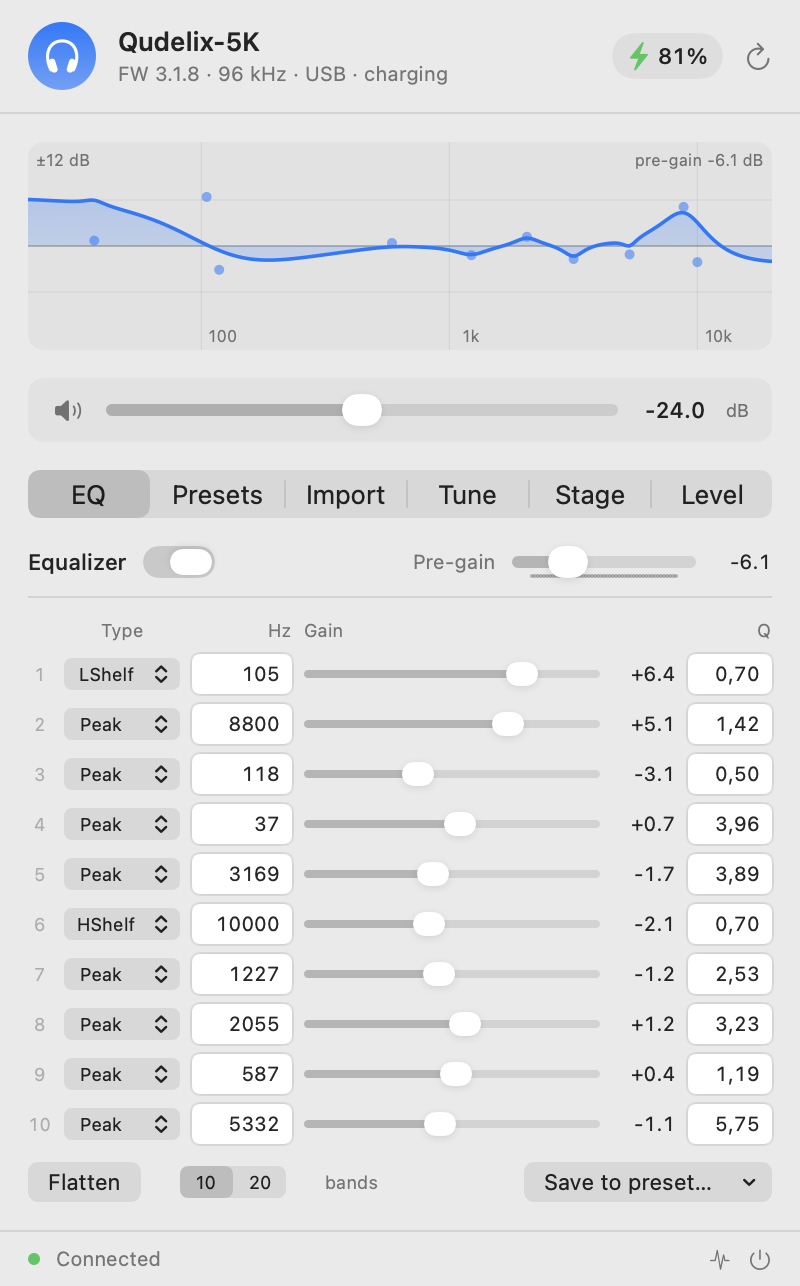
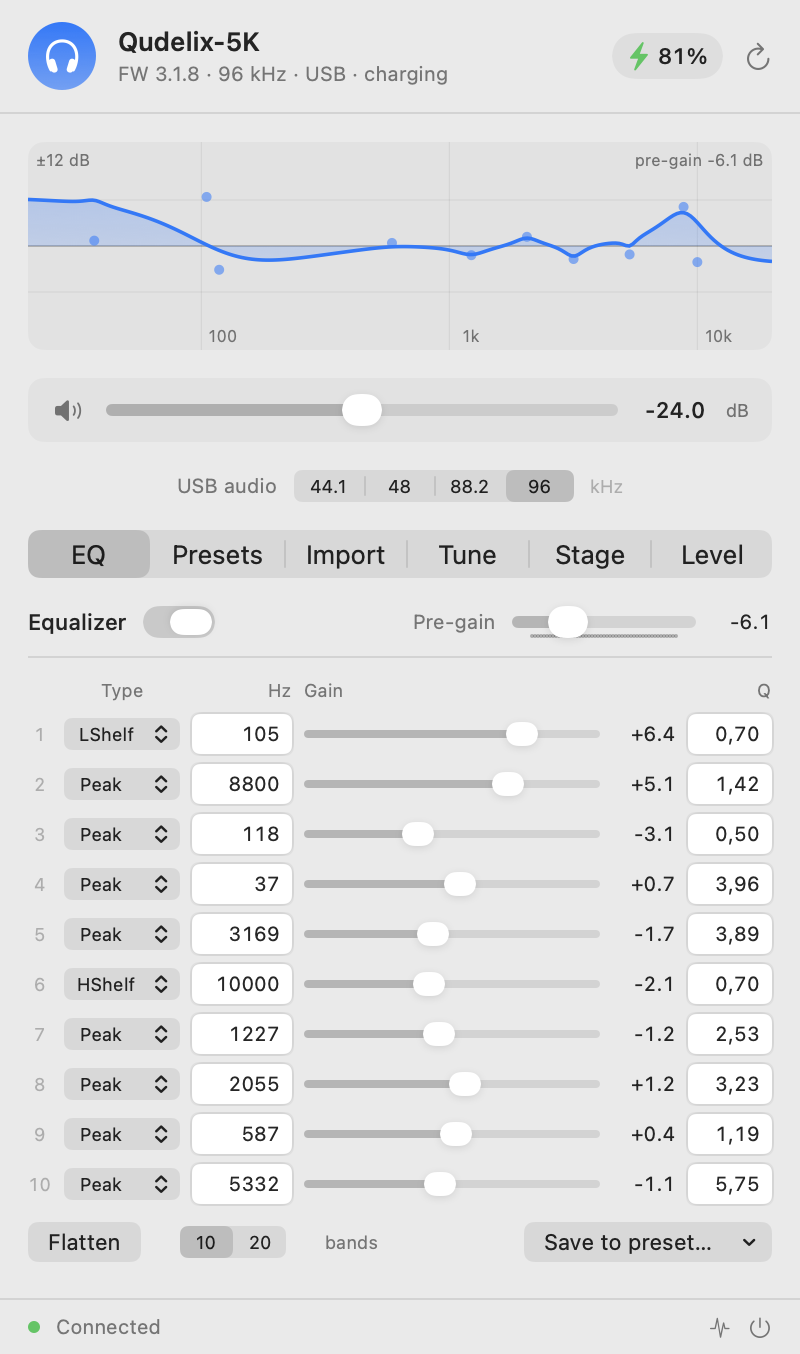
USB sample rate control, one click from the popover
macOS runs a USB DAC at one fixed rate and resamples everything else to
it — and unlike iOS it never switches that rate to match content, so a
5K parked at 96 kHz plays every 44.1 album through a resampler. The new
USB audio row sets the device's nominal rate (the same thing Audio MIDI
Setup does) from the rates the hardware itself advertises, with the
live bit depth beside it.

The tooltip is honest about the physics: match the rate to the library
for bit-perfect playback, and while Soundstage is on the audio is
processed on the Mac, so resampling happens regardless. If the stage
engine is running on the device when the rate changes, its rate
listener restarts it at the new rate.

The fixed content area grows once to fit the row and stays uniform
across every pane and state.

diff --git a/QudelixBar/Sources/QudelixBar/AudioOutputs.swift b/QudelixBar/Sources/QudelixBar/AudioOutputs.swift
@@ -38,6 +38,59 @@ enum AudioOutputs {
         nominalRate(id)
     }
 
+    /// The discrete sample rates the device offers. Ranges with distinct
+    /// min/max (rare for USB audio) contribute their endpoints.
+    static func availableNominalRates(_ id: AudioDeviceID) -> [Double] {
+        var addr = address(kAudioDevicePropertyAvailableNominalSampleRates)
+        var size: UInt32 = 0
+        guard AudioObjectGetPropertyDataSize(id, &addr, 0, nil, &size) == noErr,
+              size > 0 else { return [] }
+        var ranges = [AudioValueRange](repeating: AudioValueRange(),
+                                       count: Int(size) / MemoryLayout<AudioValueRange>.size)
+        guard AudioObjectGetPropertyData(id, &addr, 0, nil, &size, &ranges) == noErr
+        else { return [] }
+        var rates: [Double] = []
+        for r in ranges {
+            rates.append(r.mMinimum)
+            if r.mMaximum != r.mMinimum { rates.append(r.mMaximum) }
+        }
+        return Array(Set(rates)).sorted()
+    }
+
+    /// Ask the device to run at `rate` — the same thing Audio MIDI Setup
+    /// does. The change is applied asynchronously by the HAL.
+    @discardableResult
+    static func setNominalRate(_ id: AudioDeviceID, _ rate: Double) -> Bool {
+        var rate = rate
+        var addr = address(kAudioDevicePropertyNominalSampleRate)
+        return AudioObjectSetPropertyData(id, &addr, 0, nil,
+                                          UInt32(MemoryLayout<Float64>.size),
+                                          &rate) == noErr
+    }
+
+    /// Bit depth of the device's first output stream's physical format —
+    /// what actually travels over the wire, not the Float32 client side.
+    static func outputBitDepth(_ id: AudioDeviceID) -> Int? {
+        var addr = address(kAudioDevicePropertyStreams,
+                           scope: kAudioObjectPropertyScopeOutput)
+        var size: UInt32 = 0
+        guard AudioObjectGetPropertyDataSize(id, &addr, 0, nil, &size) == noErr,
+              size > 0 else { return nil }
+        var streams = [AudioStreamID](repeating: 0,
+                                      count: Int(size) / MemoryLayout<AudioStreamID>.size)
+        guard AudioObjectGetPropertyData(id, &addr, 0, nil, &size, &streams) == noErr,
+              let stream = streams.first else { return nil }
+        var fmtAddr = AudioObjectPropertyAddress(
+            mSelector: kAudioStreamPropertyPhysicalFormat,
+            mScope: kAudioObjectPropertyScopeGlobal,
+            mElement: kAudioObjectPropertyElementMain)
+        var asbd = AudioStreamBasicDescription()
+        var fmtSize = UInt32(MemoryLayout<AudioStreamBasicDescription>.size)
+        guard AudioObjectGetPropertyData(stream, &fmtAddr, 0, nil, &fmtSize, &asbd) == noErr,
+              asbd.mBitsPerChannel > 0 else { return nil }
+        return Int(asbd.mBitsPerChannel)
+    }
+
     /// The Core Audio process object for a pid, needed to exclude a process
     /// from a tap.
     static func processObject(for pid: pid_t) -> AudioObjectID? {
@@ -176,13 +229,21 @@ final class OutputWatcher: ObservableObject {
     }
 
     #if DEBUG
+    /// Mock state must survive later refresh calls (a row's onAppear may
+    /// ask for fresh rates), or the render harness would show the build
+    /// machine's real devices.
+    private var previewFrozen = false
     func previewSetDevices(_ list: [AudioOutput], defaultUID: String?) {
+        previewFrozen = true
         devices = list
         defaultOutput = list.first { $0.uid == defaultUID } ?? list.first
     }
     #endif
 
     private func refresh() {
+        #if DEBUG
+        guard !previewFrozen else { return }
+        #endif
         let fresh = AudioOutputs.outputDevices()
         if fresh != devices { devices = fresh }
         let defaultID = AudioOutputs.defaultOutputID()

diff --git a/QudelixBar/Sources/QudelixBar/PopoverView.swift b/QudelixBar/Sources/QudelixBar/PopoverView.swift
@@ -39,9 +39,10 @@ struct PopoverView: View {
     /// Height of everything between the header and the footer, fixed so the
     /// window doesn't resize when switching panes — the jumping was the
     /// annoyance, not any one size. Sized to fit the tallest pane, the
-    /// 10-band EQ table; every other pane top-aligns into the same space,
-    /// and Stage/Level scroll internally if they ever exceed it.
-    private static let contentHeight: CGFloat = 558
+    /// 10-band EQ table, plus the USB-audio row; every other pane top-aligns
+    /// into the same space, and Stage/Level scroll internally if they ever
+    /// exceed it.
+    private static let contentHeight: CGFloat = 592
 
     var body: some View {
         VStack(spacing: 0) {
@@ -64,6 +65,8 @@ struct PopoverView: View {
                         .frame(height: 104)
 
                     VolumeControl()
+
+                    UsbAudioRow()
 
                     Picker("", selection: $pane) {
                         ForEach(Pane.allCases) { p in
@@ -307,6 +310,57 @@ struct VolumeControl: View {
         }
         .padding(.horizontal, 11).padding(.vertical, 8)
         .background(.quaternary.opacity(0.35), in: RoundedRectangle(cornerRadius: 8))
+    }
+}
+
+// MARK: - USB audio rate
+
+/// The rate macOS runs the 5K's USB audio at. One fixed rate at a time —
+/// macOS resamples everything else to it and never switches automatically —
+/// so matching the library (music is usually 44.1 kHz) is what makes
+/// playback bit-perfect. Hidden when the 5K's audio isn't on USB.
+struct UsbAudioRow: View {
+    @EnvironmentObject var stageState: StageState
+
+    var body: some View {
+        if let device = stageState.qudelixOutput {
+            let available = AudioOutputs.availableNominalRates(device.id)
+            let rates = available.isEmpty ? [44100, 48000, 88200, 96000] : available
+            HStack(spacing: 8) {
+                Text("USB audio")
+                    .font(.system(size: 10))
+                    .foregroundStyle(.secondary)
+                Picker("", selection: Binding(
+                    get: { device.sampleRate },
+                    set: { stageState.setNominalRate($0, for: device) })) {
+                    ForEach(rates, id: \.self) { r in
+                        Text(Self.kHz(r)).tag(r)
+                    }
+                }
+                .pickerStyle(.segmented)
+                .controlSize(.mini)
+                .labelsHidden()
+                Text("kHz")
+                    .font(.system(size: 9))
+                    .foregroundStyle(.tertiary)
+                if let bits = AudioOutputs.outputBitDepth(device.id) {
+                    Text("\(bits)-bit")
+                        .font(.system(size: 9).monospacedDigit())
+                        .foregroundStyle(.tertiary)
+                }
+            }
+            .onAppear { stageState.watcher.refreshNow() }
+            .help("The rate macOS runs the Qudelix at — the same setting as "
+                  + "Audio MIDI Setup. macOS resamples anything at a different "
+                  + "rate and never switches this automatically, so match your "
+                  + "library: most music is 44.1 kHz, most video 48 kHz. "
+                  + "While Soundstage is on, audio is processed on the Mac and "
+                  + "resampling happens regardless.")
+        }
+    }
+
+    private static func kHz(_ rate: Double) -> String {
+        String(format: "%g", rate / 1000)
     }
 }
 

diff --git a/QudelixBar/Sources/QudelixBar/StageState.swift b/QudelixBar/Sources/QudelixBar/StageState.swift
@@ -44,6 +44,22 @@ final class StageState: ObservableObject {
     var outputName: String? { watcher.defaultOutput?.name }
     var outputUID: String? { watcher.defaultOutput?.uid }
 
+    /// The 5K as a Core Audio OUTPUT device (its USB audio side), whichever
+    /// output is currently the default. nil when audio isn't on USB.
+    var qudelixOutput: AudioOutput? {
+        watcher.devices.first { $0.name.localizedCaseInsensitiveContains("qudelix") }
+    }
+
+    /// Set the rate macOS runs a device at — what Audio MIDI Setup does.
+    /// If the stage engine is on that device, its rate listener restarts it
+    /// at the new rate; the delayed refresh picks up the HAL's async apply.
+    func setNominalRate(_ rate: Double, for device: AudioOutput) {
+        AudioOutputs.setNominalRate(device.id, rate)
+        DispatchQueue.main.asyncAfter(deadline: .now() + 0.4) { [weak self] in
+            self?.watcher.refreshNow()
+        }
+    }
+
     init() {
         // Views observe this object alone; the engine's status line and the
         // watcher's device names publish through it.

diff --git a/QudelixBar/Sources/QudelixBar/UIPreview.swift b/QudelixBar/Sources/QudelixBar/UIPreview.swift
@@ -145,7 +145,9 @@ enum UIPreview {
                      currentDb: running ? -21 : nil)
         s.watcher.previewSetDevices(
             [AudioOutput(id: 1, uid: "mock-speakers",
-                         name: "MacBook Pro Speakers", sampleRate: 48000)],
+                         name: "MacBook Pro Speakers", sampleRate: 48000),
+             AudioOutput(id: 2, uid: "mock-qudelix",
+                         name: "Qudelix-5K USB DAC", sampleRate: 96000)],
             defaultUID: "mock-speakers")
         if running {
             s.engine.previewSetRunning(true, status: "Stage active → MacBook Pro Speakers @ 48 kHz")

diff --git a/README.md b/README.md
@@ -33,6 +33,9 @@ right.
 
 - **Live device status** — battery, charging, firmware, sample rate, input source
 - **Volume** control with mute
+- **USB sample rate** — switch the rate macOS runs the 5K at (44.1/48/88.2/96)
+  without a trip to Audio MIDI Setup; macOS resamples anything that doesn't
+  match and never switches this itself, so set it to match what you play
 - **10-band parametric EQ** editor: filter type, frequency, gain, Q, plus pre-gain
 - **20-band mode** — switch between 10 and 20 bands from the EQ pane; the app
   also follows a switch made anywhere else
